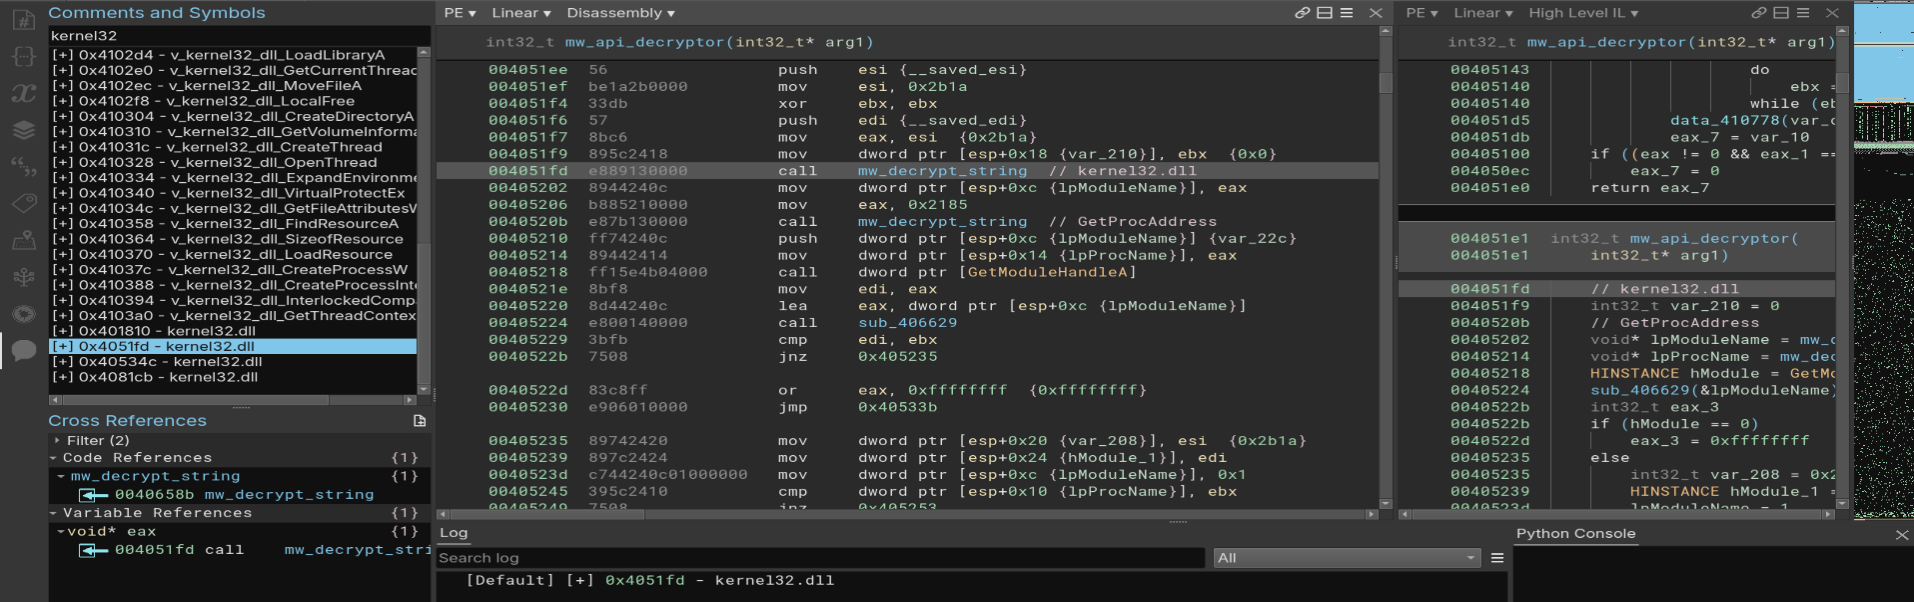
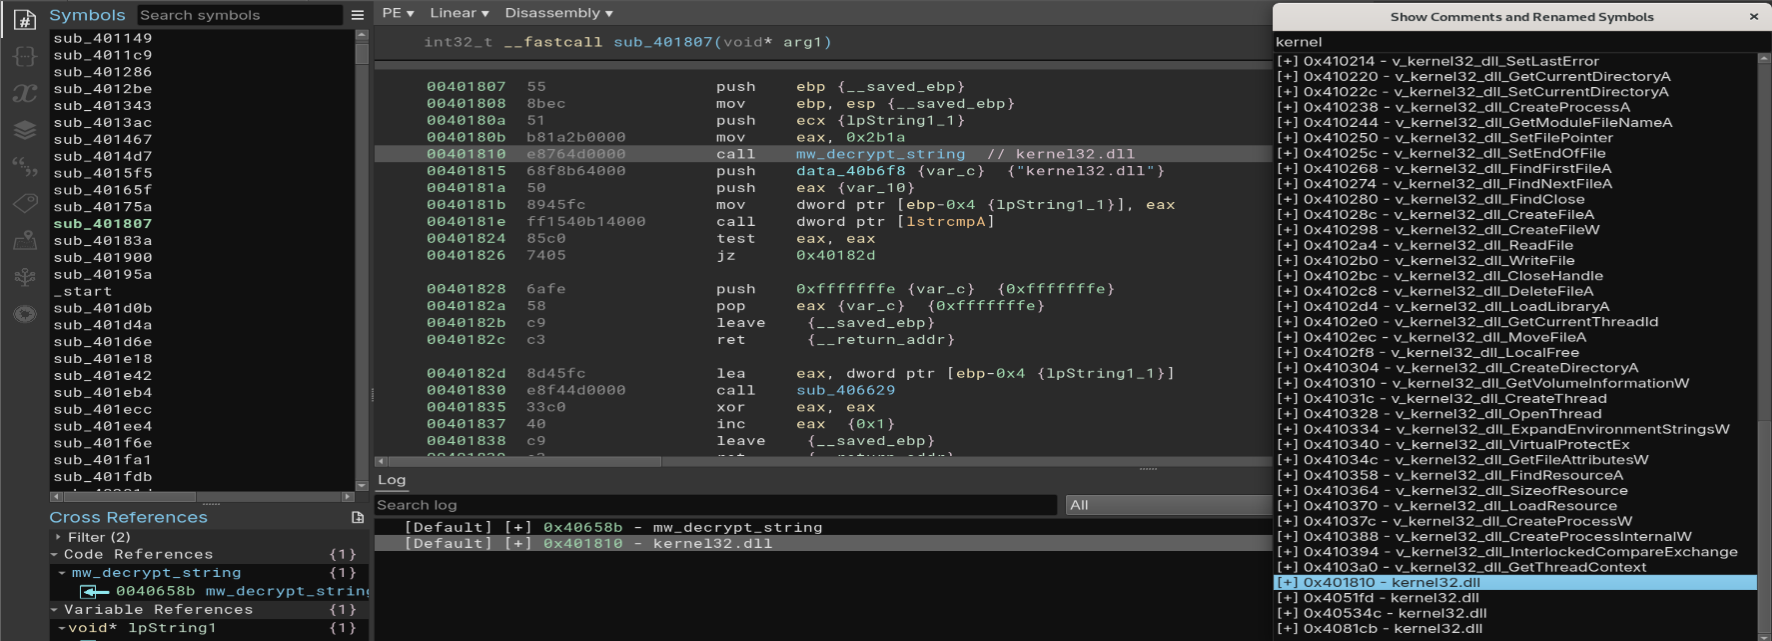
Update structure

diff --git a/__init__.py b/__init__.py
@@ -1,129 +1,10 @@
-from pathlib import Path
-from binaryninja import *
+import binaryninja
 
+if binaryninja.core_ui_enabled():
+    from .CommentsAndSymbols import comments_and_symbols
 
-# Note that this is a sample plugin and you may need to manually edit it with
-# additional functionality. In particular, this example only passes in the
-# binary view. If you would like to act on an addres or function you should
-# consider using other register_for* functions.
-
-# Add documentation about UI plugin alternatives and potentially getting
-# current_* functions
-
-def main(bv):
-    # Copyright (c) 2015-2023 Vector 35 Inc
-    #
-    # Permission is hereby granted, free of charge, to any person obtaining a copy
-    # of this software and associated documentation files (the "Software"), to
-    # deal in the Software without restriction, including without limitation the
-    # rights to use, copy, modify, merge, publish, distribute, sublicense, and/or
-    # sell copies of the Software, and to permit persons to whom the Software is
-    # furnished to do so, subject to the following conditions:
-    #
-    # The above copyright notice and this permission notice shall be included in
-    # all copies or substantial portions of the Software.
-    #
-    # THE SOFTWARE IS PROVIDED "AS IS", WITHOUT WARRANTY OF ANY KIND, EXPRESS OR
-    # IMPLIED, INCLUDING BUT NOT LIMITED TO THE WARRANTIES OF MERCHANTABILITY,
-    # FITNESS FOR A PARTICULAR PURPOSE AND NONINFRINGEMENT. IN NO EVENT SHALL THE
-    # AUTHORS OR COPYRIGHT HOLDERS BE LIABLE FOR ANY CLAIM, DAMAGES OR OTHER
-    # LIABILITY, WHETHER IN AN ACTION OF CONTRACT, TORT OR OTHERWISE, ARISING
-    # FROM, OUT OF OR IN CONNECTION WITH THE SOFTWARE OR THE USE OR OTHER DEALINGS
-    # IN THE SOFTWARE.
-
-    # This is an example UI plugin which demonstrates how to add sidebar widgets to Binary Ninja.
-    # See .../api/ui/sidebar.h for interface details.
-
-    from binaryninjaui import SidebarWidget, SidebarWidgetType, Sidebar, UIActionHandler
-    from PySide6.QtWidgets import QVBoxLayout, QListWidget, QLineEdit
-    from PySide6.QtGui import QImage
-    import PySide6.QtCore as QtCore
-
-    symbols_comments_list = []
-
-    # Sidebar widgets must derive from SidebarWidget, not QWidget. SidebarWidget is a QWidget but
-    # provides callbacks for sidebar events, and must be created with a title.
-    class CommentsAndSymbolsWidget(SidebarWidget):
-        def __init__(self, name, frame, data):
-            SidebarWidget.__init__(self, name)
-            self.actionHandler = UIActionHandler()
-            self.actionHandler.setupActionHandler(self)
-
-            self.layout = QVBoxLayout()
-            self.widget = QListWidget()
-
-            self.line_edit = QLineEdit()
-            self.line_edit.setMaxLength(10)
-            self.line_edit.setPlaceholderText("Filter your search")
-            self.line_edit.textChanged.connect(self.filter_text)
-            self.line_edit.returnPressed.connect(self.return_pressed)
-
-            self.add_symbols()
-            self.add_comments()
-
-            self.widget.currentTextChanged.connect(self.text_changed)
-            self.layout.addWidget(self.line_edit)
-            self.layout.addWidget(self.widget)
-            self.layout.setContentsMargins(0, 0, 0, 0)
-            self.layout.setSpacing(0)
-
-            self.setLayout(self.layout)
-
-        def add_comments(self):
-            for x in range(bv.start, bv.end):
-                comment = bv.get_comment_at(x)
-                if comment:
-                    f_comment = f"[+] {hex(x)} - {comment}"
-                    symbols_comments_list.append(f_comment)
-                    self.widget.addItem(f_comment)
-
-        def add_symbols(self):
-            for symbol in bv.symbols.items():
-                label = symbol[0]
-
-                if label.startswith('__'):
-                    continue
-
-                addr = int(str(bv.symbols.get(label)).split('>')[0].split('@')[1].replace('x', '').strip(), 16)
-
-                f_symbol = f"[+] {hex(addr)} - {label}"
-                symbols_comments_list.append(f_symbol)
-                self.widget.addItem(f_symbol)
-
-        def text_changed(self, s):
-            print(s)
-
-        def filter_text(self, s):
-            self.widget.clear()
-            rex_ex = QtCore.QRegularExpression(s)
-            filter_files = [x for x in symbols_comments_list if rex_ex.match(x).hasMatch()]
-            self.widget.addItems(filter_files)
-
-        def return_pressed(self):
-            self.widget.clear()
-            self.widget.addItems(symbols_comments_list)
-
-    root = Path(__file__).parent
-
-    class CommentsAndSymbolsWidgetType(SidebarWidgetType):
-        def __init__(self):
-            # Sidebar icons are 28x28 points. Should be at least 56x56 pixels for
-            # HiDPI display compatibility. They will be automatically made theme
-            # aware, so you need only provide a grayscale image, where white is
-            # the color of the shape.
-            icon = QImage(str(root.joinpath("comments.png")))
-
-            SidebarWidgetType.__init__(self, icon, "Comments and Symbols")
-
-        def createWidget(self, frame, data):
-            # This callback is called when a widget needs to be created for a given context. Different
-            # widgets are created for each unique BinaryView. They are created on demand when the sidebar
-            # widget is visible and the BinaryView becomes active.
-            return CommentsAndSymbolsWidget("Comments and Symbols", frame, data)
-
-    # Register the sidebar widget type with Binary Ninja. This will make it appear as an icon in the
-    # sidebar and the `createWidget` method will be called when a widget is required.
-    Sidebar.addSidebarWidgetType(CommentsAndSymbolsWidgetType())
-
-
-PluginCommand.register('CommentsAndSymbols', 'CommentsAndSymbols', main)
+    binaryninja.PluginCommand.register(
+        'Comments And Symbols',
+        'Show comments and symbols renamed during the analysis process.',
+        comments_and_symbols
+    )

diff --git a/CommentsAndSymbols.py b/CommentsAndSymbols.py
@@ -1,0 +1,82 @@
+import binaryninjaui
+import PySide6.QtCore as QtCore
+
+from PySide6.QtCore import Qt, QAbstractItemModel, QModelIndex
+from PySide6.QtWidgets import QApplication, QDialog, QVBoxLayout, QListWidget, QLineEdit
+
+from pathlib import Path
+
+symbols_comments_list = []
+
+
+class CommentsAndSymbolsDialog(QDialog):
+    def __init__(self, bv):
+        super(CommentsAndSymbolsDialog, self).__init__()
+        self.bv = bv
+
+        self.setWindowTitle("Show Comments and Renamed Symbols")
+        self.setGeometry(800, 200, 500, 800)
+
+        self.layout = QVBoxLayout()
+        self.list_widget = QListWidget()
+
+        self.line_edit = QLineEdit()
+        self.line_edit.setMaxLength(10)
+        self.line_edit.setPlaceholderText("Filter your search")
+        self.line_edit.textChanged.connect(self.filter_text)
+        self.line_edit.returnPressed.connect(self.return_pressed)
+
+        self.add_symbols()
+        self.add_comments()
+
+        self.list_widget.currentTextChanged.connect(self.text_changed)
+        self.layout.addWidget(self.line_edit)
+        self.layout.addWidget(self.list_widget)
+        self.layout.setContentsMargins(0, 0, 0, 0)
+        self.layout.setSpacing(0)
+
+        self.setLayout(self.layout)
+
+    def add_comments(self):
+        for x in range(self.bv.start, self.bv.end):
+            comment = self.bv.get_comment_at(x)
+            if comment:
+                f_comment = f"[+] {hex(x)} - {comment}"
+                symbols_comments_list.append(f_comment)
+                self.list_widget.addItem(f_comment)
+
+    def add_symbols(self):
+        for symbol in self.bv.symbols.items():
+            label = symbol[0]
+
+            if label.startswith('__'):
+                continue
+
+            addr = int(str(self.bv.symbols.get(label)).split('>')[0].split('@')[1].replace('x', '').strip(), 16)
+
+            f_symbol = f"[+] {hex(addr)} - {label}"
+            symbols_comments_list.append(f_symbol)
+            self.list_widget.addItem(f_symbol)
+
+    def text_changed(self, s):
+        print(s)
+
+    def filter_text(self, s):
+        self.list_widget.clear()
+        rex_ex = QtCore.QRegularExpression(s)
+        filter_files = [x for x in symbols_comments_list if rex_ex.match(x).hasMatch()]
+        self.list_widget.addItems(filter_files)
+
+    def return_pressed(self):
+        self.list_widget.clear()
+        self.list_widget.addItems(symbols_comments_list)
+
+
+def comments_and_symbols(bv):
+    assert QApplication.instance() is not None
+
+    global dialog
+    dialog = CommentsAndSymbolsDialog(bv)
+    dialog.show()
+    dialog.raise_()
+    dialog.activateWindow()

diff --git a/README.md b/README.md
@@ -1,7 +1,7 @@
-# CommentsAndSymbols
+# Comments And Symbols
 Author: **moval0x1**
 
-_CommentsAndSymbols_
+_Comments And Symbols_
 
 ## Description:
 
@@ -12,6 +12,9 @@ Show comments and symbols renamed during the analysis process.
 ## Installation
 
 Clone this repo into your Binary Ninja plugin directory.
+
+## Credits
+Inspired by [Comments Viewer](https://github.com/matteyeux/comments-viewer)
 
 ## Minimum Version
 
